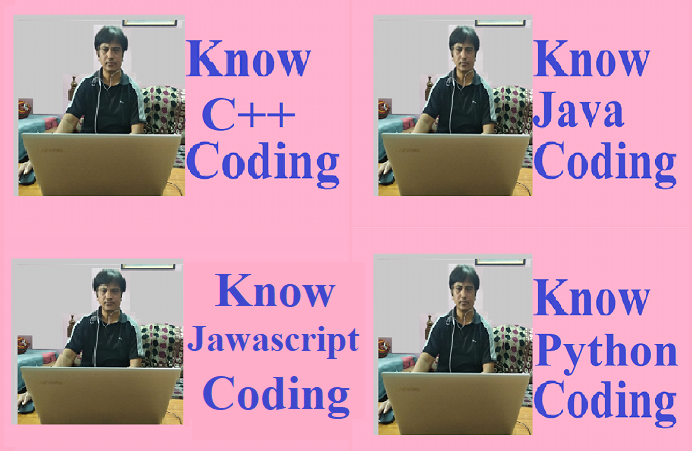
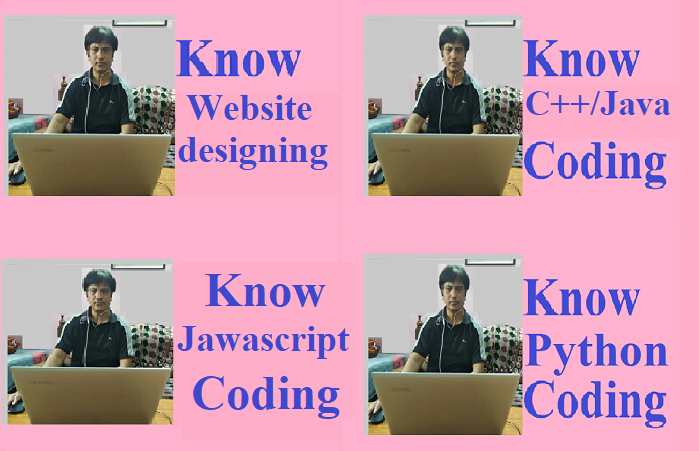
Add files via upload

Changed region(s): [[0.0, 0.5588, 1.0, 0.9623], [0.5159, 0.031, 1.0, 0.4346], [0.0, 0.031, 0.4855, 0.4346]]

diff --git a/child2.html b/child2.html
@@ -608,7 +608,8 @@ window.addEventListener('load', function(event) { initCanvas(); });
       <div class="spinner-grow text-warning"></div>
       <div class="spinner-grow text-dark"></div>
 
-<p class = "p-3" style="font-size:20px;color:red;"> <b> We offer teaching coding. We teach several Computer languages viz. C++, Java, Javascript, Python etc. We cover Website designing which is also an exciting career. Facebook, Twitters, yahoo, gmail etc are all sites.  </b>
+<p class = "p-3" style="font-size:20px;color:red;"> <b> We offer teaching coding to your child. We teach several Computer languages viz. C++, Java, Javascript, Python etc. We cover Website designing which is also an exciting career. Facebook, Twitters, Yahoo, Gmail etc are all websites. Market value of Facebook alone is more than 100$ billion. Guess if your child already have exposer of 5-6 years in coding/website designing  before he/she enters collage. </b>
+  <img src="codingpic.png"  style="width:500px;height:450px;margin-left:30px;float: right;"> 
  </p>  <br>
 
 
@@ -617,8 +618,11 @@ window.addEventListener('load', function(event) { initCanvas(); });
       <div class="spinner-grow text-warning"></div>
       <div class="spinner-grow text-dark"></div>
 
-<p class = "p-3" style="font-size:20px;color:red;"> <b> We offer Vedic Maths. Vedic Maths helps all students in exams especially in competitive exams  for superfast calculations.     </b>
- </p>  <br>
+<div class="row" style="background-color:yellow; color= white">
+<p class = "p-3" style="font-size:20px;color:red;"> <b> We also offer Vedic Maths. Vedic Maths helps all students in exams especially in competitive exams  for superfast calculations & give them a definite edge over other students. </b> </p>
+ <img src="vedicex.png"  style="width:550px;height:500px;margin-left:30px;float: right;"> 
+   
+</div>
 
 
 
